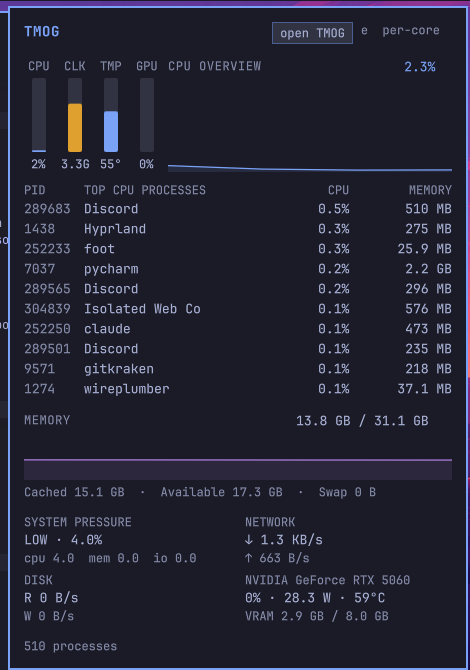
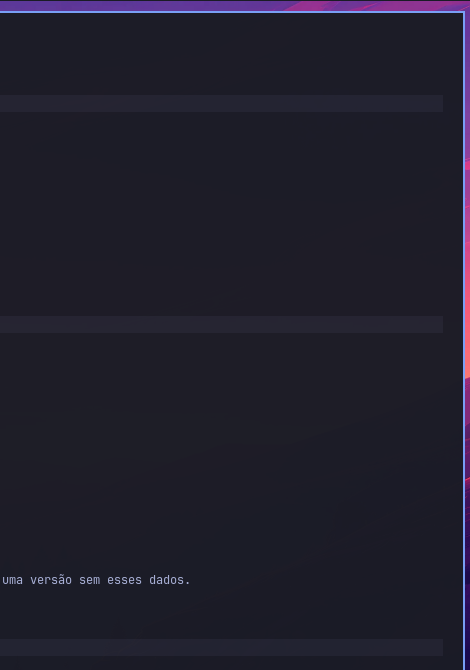
Show shortcut hints as a keycap so the key reads as a control

diff --git a/KeyHint.qml b/KeyHint.qml
@@ -1,0 +1,62 @@
+import QtQuick
+import qs.Commons
+import qs.Ui
+
+// A keyboard shortcut hint: the key drawn as a keycap, then what it does.
+// Clicking it triggers the same action as pressing the key.
+Item {
+  id: hint
+
+  property string keyName: ""
+  property string label: ""
+  property color textColor: Color.popups.text
+  property string fontFamily: Style.font.family
+  signal activated()
+
+  implicitWidth: row.implicitWidth
+  implicitHeight: row.implicitHeight
+
+  Row {
+    id: row
+    spacing: Style.space(6)
+
+    Rectangle {
+      id: cap
+      anchors.verticalCenter: parent.verticalCenter
+      width: Math.max(height, keyText.implicitWidth + Style.space(10))
+      height: keyText.implicitHeight + Style.space(6)
+      radius: Style.space(4)
+      color: area.containsMouse ? Util.alpha(hint.textColor, 0.28) : Util.alpha(hint.textColor, 0.14)
+      border.width: 1
+      border.color: Util.alpha(hint.textColor, 0.55)
+
+      Text {
+        id: keyText
+        anchors.centerIn: parent
+        text: hint.keyName.toUpperCase()
+        textFormat: Text.PlainText
+        color: hint.textColor
+        font.family: hint.fontFamily
+        font.pixelSize: Style.font.body
+        font.bold: true
+      }
+    }
+
+    Text {
+      anchors.verticalCenter: parent.verticalCenter
+      text: hint.label
+      textFormat: Text.PlainText
+      color: Util.alpha(hint.textColor, 0.75)
+      font.family: hint.fontFamily
+      font.pixelSize: Style.font.body
+    }
+  }
+
+  MouseArea {
+    id: area
+    anchors.fill: parent
+    hoverEnabled: true
+    cursorShape: Qt.PointingHandCursor
+    onClicked: hint.activated()
+  }
+}

diff --git a/Panel.qml b/Panel.qml
@@ -167,12 +167,13 @@ Panel {
             }
           }
           Item { width: Style.spacing.lg; height: 1 }
-          Text {
+          KeyHint {
             id: hint
-            text: root.expanded ? "e  collapse" : "e  per-core"
-            color: root.dim
-            font.family: root.family
-            font.pixelSize: Style.font.body
+            keyName: "e"
+            label: root.expanded ? "collapse" : "per-core"
+            textColor: root.foreground
+            fontFamily: root.family
+            onActivated: root.toggleExpanded()
           }
         }
 
